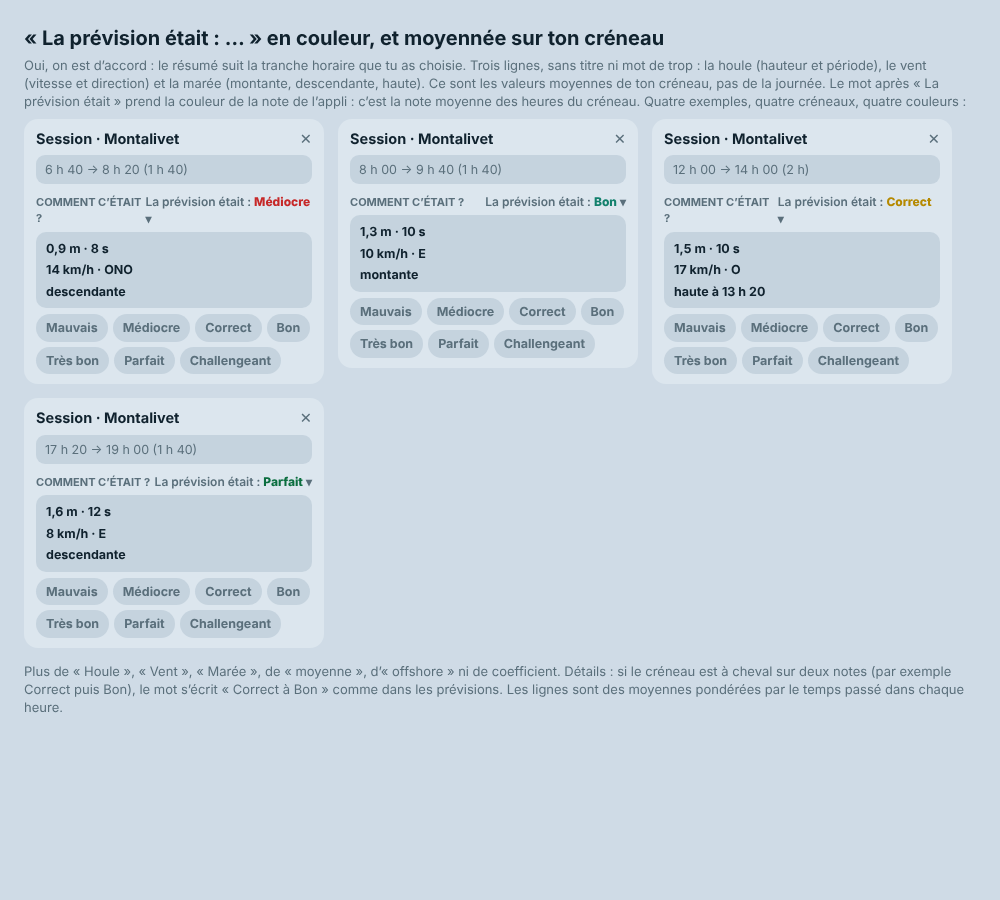
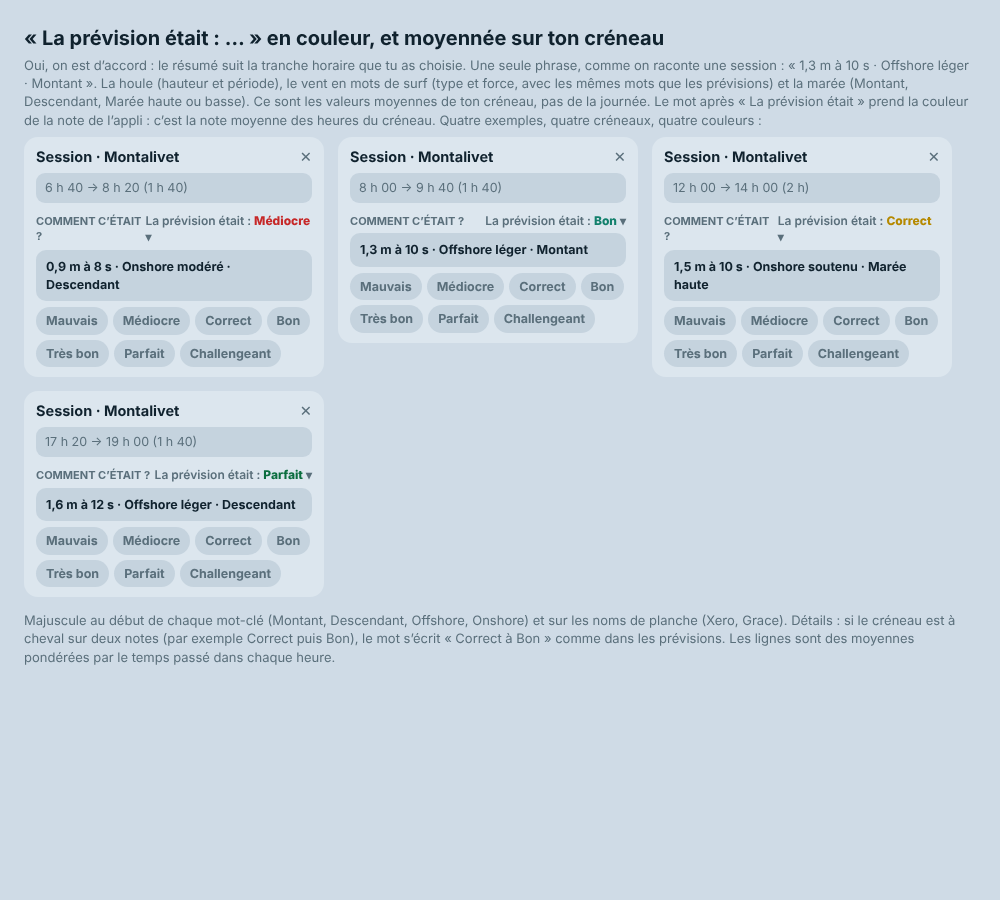
Maquette : résumé en une phrase, majuscules (Montant, Descendant, noms de planche)
Claude-Session: https://claude.ai/code/session_01SmdS3QR8SGgih4tjLPucxr

diff --git a/docs/maquettes/propositions-v3/journal-session-prevision-couleur.html b/docs/maquettes/propositions-v3/journal-session-prevision-couleur.html
@@ -13,23 +13,23 @@ main{max-width:1000px;margin:auto}h1{font-size:20px;margin:0 0 4px}p{color:var(-
 .bands{display:flex;flex-wrap:wrap;gap:5px}.bands span{padding:5px 10px;border-radius:50px;font-size:12.5px;font-weight:700;background:var(--tile);color:var(--mut)}
 </style><main>
 <h1>« La prévision était : … » en couleur, et moyennée sur ton créneau</h1>
-<p>Oui, on est d’accord : le résumé suit la tranche horaire que tu as choisie. Trois lignes, sans titre ni mot de trop : la houle (hauteur et période), le vent (vitesse et direction) et la marée (montante, descendante, haute). Ce sont les valeurs moyennes de ton créneau, pas de la journée. Le mot après « La prévision était » prend la couleur de la note de l’appli : c’est la note moyenne des heures du créneau. Quatre exemples, quatre créneaux, quatre couleurs :</p>
+<p>Oui, on est d’accord : le résumé suit la tranche horaire que tu as choisie. Une seule phrase, comme on raconte une session : « 1,3 m à 10 s · Offshore léger · Montant ». La houle (hauteur et période), le vent en mots de surf (type et force, avec les mêmes mots que les prévisions) et la marée (Montant, Descendant, Marée haute ou basse). Ce sont les valeurs moyennes de ton créneau, pas de la journée. Le mot après « La prévision était » prend la couleur de la note de l’appli : c’est la note moyenne des heures du créneau. Quatre exemples, quatre créneaux, quatre couleurs :</p>
 <div class="grid"><div class="col"><div class="app"><div class="hd"><b>Session · Montalivet</b><span>✕</span></div>
 <div class="win">6 h 40 → 8 h 20 (1 h 40)</div>
 <div class="lab"><span>COMMENT C’ÉTAIT ?</span><em>La prévision était : <strong style="--d:#FF5A55;--l:#C62828">Médiocre</strong> ▾</em></div>
-<div class="accb"><div><b>0,9 m · 8 s</b></div><div><b>14 km/h · ONO</b></div><div><b>descendante</b></div></div>
+<div class="accb"><div><b>0,9 m à 8 s · Onshore modéré · Descendant</b></div></div>
 <div class="bands"><span>Mauvais</span><span>Médiocre</span><span>Correct</span><span>Bon</span><span>Très bon</span><span>Parfait</span><span>Challengeant</span></div></div></div><div class="col"><div class="app"><div class="hd"><b>Session · Montalivet</b><span>✕</span></div>
 <div class="win">8 h 00 → 9 h 40 (1 h 40)</div>
 <div class="lab"><span>COMMENT C’ÉTAIT ?</span><em>La prévision était : <strong style="--d:#3FD0B0;--l:#12806C">Bon</strong> ▾</em></div>
-<div class="accb"><div><b>1,3 m · 10 s</b></div><div><b>10 km/h · E</b></div><div><b>montante</b></div></div>
+<div class="accb"><div><b>1,3 m à 10 s · Offshore léger · Montant</b></div></div>
 <div class="bands"><span>Mauvais</span><span>Médiocre</span><span>Correct</span><span>Bon</span><span>Très bon</span><span>Parfait</span><span>Challengeant</span></div></div></div><div class="col"><div class="app"><div class="hd"><b>Session · Montalivet</b><span>✕</span></div>
 <div class="win">12 h 00 → 14 h 00 (2 h)</div>
 <div class="lab"><span>COMMENT C’ÉTAIT ?</span><em>La prévision était : <strong style="--d:#FFD21F;--l:#B58900">Correct</strong> ▾</em></div>
-<div class="accb"><div><b>1,5 m · 10 s</b></div><div><b>17 km/h · O</b></div><div><b>haute à 13 h 20</b></div></div>
+<div class="accb"><div><b>1,5 m à 10 s · Onshore soutenu · Marée haute</b></div></div>
 <div class="bands"><span>Mauvais</span><span>Médiocre</span><span>Correct</span><span>Bon</span><span>Très bon</span><span>Parfait</span><span>Challengeant</span></div></div></div><div class="col"><div class="app"><div class="hd"><b>Session · Montalivet</b><span>✕</span></div>
 <div class="win">17 h 20 → 19 h 00 (1 h 40)</div>
 <div class="lab"><span>COMMENT C’ÉTAIT ?</span><em>La prévision était : <strong style="--d:#1FAA68;--l:#0B6E3F">Parfait</strong> ▾</em></div>
-<div class="accb"><div><b>1,6 m · 12 s</b></div><div><b>8 km/h · E</b></div><div><b>descendante</b></div></div>
+<div class="accb"><div><b>1,6 m à 12 s · Offshore léger · Descendant</b></div></div>
 <div class="bands"><span>Mauvais</span><span>Médiocre</span><span>Correct</span><span>Bon</span><span>Très bon</span><span>Parfait</span><span>Challengeant</span></div></div></div></div>
-<p style="margin-top:14px">Plus de « Houle », « Vent », « Marée », de « moyenne », d’« offshore » ni de coefficient. Détails : si le créneau est à cheval sur deux notes (par exemple Correct puis Bon), le mot s’écrit « Correct à Bon » comme dans les prévisions. Les lignes sont des moyennes pondérées par le temps passé dans chaque heure.</p>
+<p style="margin-top:14px">Majuscule au début de chaque mot-clé (Montant, Descendant, Offshore, Onshore) et sur les noms de planche (Xero, Grace). Détails : si le créneau est à cheval sur deux notes (par exemple Correct puis Bon), le mot s’écrit « Correct à Bon » comme dans les prévisions. Les lignes sont des moyennes pondérées par le temps passé dans chaque heure.</p>
 </main></html>

diff --git a/docs/maquettes/propositions-v3/journal-session-interactive.html b/docs/maquettes/propositions-v3/journal-session-interactive.html
@@ -44,7 +44,7 @@ input[type=range]{width:100%;accent-color:var(--acc);margin:2px 0 0;height:20px}
 const $=id=>document.getElementById(id);
 const SUNRISE=8.28, SUNSET=19.37; // 8 h 17, 19 h 22
 const BANDS=[['Mauvais','#9B1C31','#fff'],['Médiocre','#E53935','#fff'],['Correct','#FFD21F','#061018'],['Bon','#1A9C82','#fff'],['Très bon','#2BD47A','#061018'],['Parfait','#0F8A52','#fff'],['Challengeant','#FF9A1F','#061018']];
-const st={day:2,hour:8,min:0,dur:80,band:3,board:0,boards:['xero','grace']};
+const st={day:2,hour:8,min:0,dur:80,band:3,board:0,boards:['Xero','Grace']};
 const fmt=m=>{const h=Math.floor(m/60),mm=m%60;return h+' h '+String(mm).padStart(2,'0')};
 const dur=m=>{const h=Math.floor(m/60),mm=m%60;return (h?h+' h ':'')+(mm?String(mm).padStart(h?2:1,'0')+(h?'':' min'):'')||'0'};
 // cases : nuit par blocs de 3 h, jour heure par heure (lever-2 h ... coucher+2 h)
